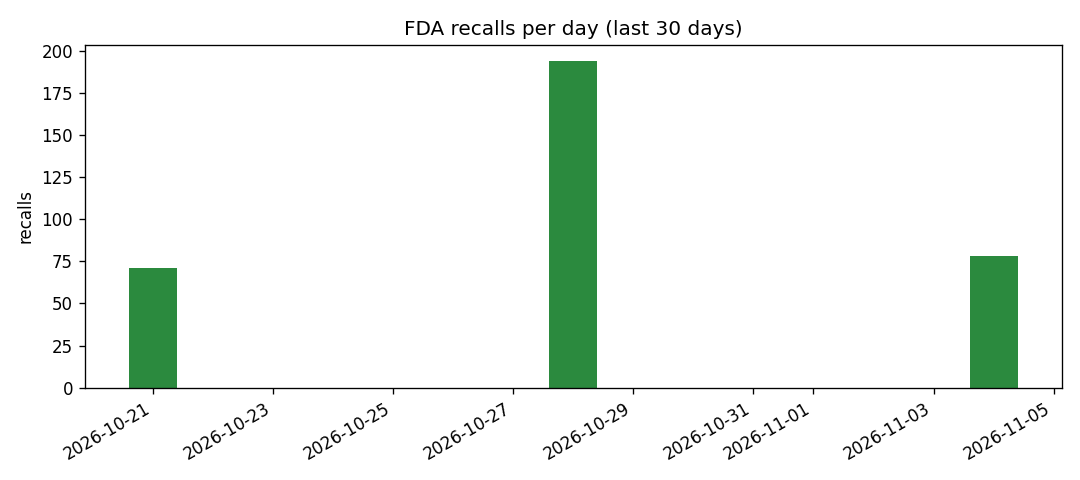
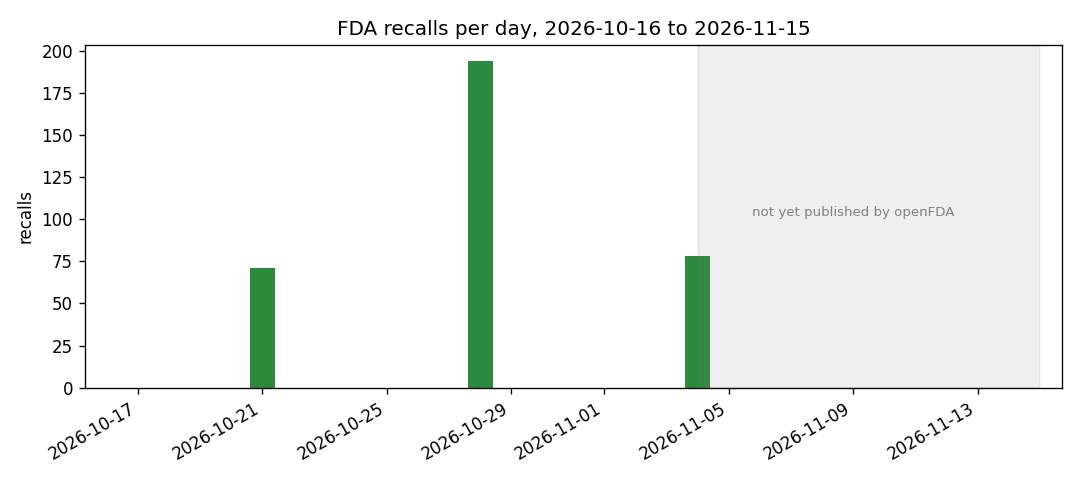
Full-window chart with openFDA freshness shading; daily_series helper; meta endpoint; README badge and chart embed; +4 tests

diff --git a/src/recallradar/report.py b/src/recallradar/report.py
@@ -8,19 +8,22 @@ import matplotlib
 matplotlib.use("Agg")
 import matplotlib.pyplot as plt
 
-from .analyze import recalls_by_day
+from .analyze import daily_series
 
 CLASS_ORDER = ["Class I", "Class II", "Class III"]
 
 
 def render_markdown(summary: dict, spotlight: list[dict],
                     window_start: dt.date, window_end: dt.date,
+                    data_through: dt.date | None = None,
                     generated_at: dt.datetime | None = None) -> str:
     generated_at = generated_at or dt.datetime.now(dt.timezone.utc)
+    freshness = (f"openFDA data published through {data_through}. "
+                 if data_through else "")
     lines = [
         "# FDA Recall Radar - daily report",
         "",
-        f"Window: {window_start} to {window_end} (by report date). "
+        f"Window: {window_start} to {window_end} (by report date). {freshness}"
         f"Generated {generated_at:%Y-%m-%d %H:%M} UTC.",
         "",
         f"**{summary['total']} recalls** across {summary['days_with_recalls']} active days.",
@@ -55,16 +58,26 @@ def render_markdown(summary: dict, spotlight: list[dict],
     return "\n".join(lines)
 
 
-def plot_daily_counts(records: list[dict], out_path, window_days: int = 30) -> bool:
-    by_day = recalls_by_day(records)
-    if not by_day:
+def plot_daily_counts(records: list[dict], out_path,
+                      window_start: dt.date, window_end: dt.date,
+                      data_through: dt.date | None = None) -> bool:
+    series = daily_series(records, window_start, window_end)
+    if not series:
         return False
-    days = [d for d, _ in by_day]
-    counts = [c for _, c in by_day]
+    days = [d for d, _ in series]
+    counts = [c for _, c in series]
     fig, ax = plt.subplots(figsize=(9, 4))
     ax.bar(days, counts, color="#2b8a3e")
-    ax.set_title(f"FDA recalls per day (last {window_days} days)")
+    ax.set_title(f"FDA recalls per day, {window_start} to {window_end}")
     ax.set_ylabel("recalls")
+    ax.margins(x=0.01)
+    if data_through and data_through < window_end:
+        ax.axvspan(data_through + dt.timedelta(days=0.5), window_end,
+                   color="grey", alpha=0.12)
+        midpoint = data_through + (window_end - data_through) / 2
+        ax.annotate("not yet published by openFDA",
+                    xy=(midpoint, ax.get_ylim()[1] * 0.5),
+                    ha="center", fontsize=8, color="grey")
     fig.autofmt_xdate()
     fig.tight_layout()
     fig.savefig(out_path, dpi=120)

diff --git a/scripts/daily_update.py b/scripts/daily_update.py
@@ -33,6 +33,15 @@ def main() -> None:
     end = dt.date.today()
     start = end - dt.timedelta(days=WINDOW_DAYS)
 
+    data_through = None
+    try:
+        meta = api.fetch_meta("drug")
+        raw_updated = meta.get("last_updated")
+        if raw_updated:
+            data_through = dt.datetime.strptime(raw_updated, "%Y-%m-%d").date()
+    except api.OpenFDAError as exc:
+        print(f"warning: could not read openFDA meta: {exc}")
+
     records: list[dict] = []
     for product in api.ENDPOINTS:
         for rec in api.fetch_enforcement(product, start, end):
@@ -62,9 +71,11 @@ def main() -> None:
     summary = analyze.summarize(records)
     spotlight = analyze.most_severe(records)
     (REPORTS / "daily_report.md").write_text(
-        report.render_markdown(summary, spotlight, start, end), encoding="utf-8"
+        report.render_markdown(summary, spotlight, start, end, data_through),
+        encoding="utf-8",
     )
-    if report.plot_daily_counts(records, REPORTS / "recalls_last_30d.png", WINDOW_DAYS):
+    if report.plot_daily_counts(records, REPORTS / "recalls_last_30d.png",
+                                start, end, data_through):
         print("wrote chart")
     print("wrote reports/daily_report.md")
 

diff --git a/src/recallradar/api.py b/src/recallradar/api.py
@@ -31,6 +31,17 @@ def date_range_query(field: str, start: dt.date, end: dt.date) -> str:
     return f"{field}:[{fda_date(start)} TO {fda_date(end)}]"
 
 
+def fetch_meta(product: str, session=None) -> dict:
+    """Return the openFDA meta block (includes last_updated) for an endpoint."""
+    if product not in ENDPOINTS:
+        raise ValueError(f"unknown product area {product!r}; expected one of {ENDPOINTS}")
+    http = session or requests.Session()
+    resp = http.get(f"{BASE_URL}/{product}/enforcement.json", params={"limit": 1}, timeout=30)
+    if resp.status_code != 200:
+        raise OpenFDAError(f"openFDA returned {resp.status_code} for {product} meta")
+    return resp.json().get("meta", {})
+
+
 def fetch_enforcement(product: str, start: dt.date, end: dt.date,
                       session=None, max_pages: int = MAX_PAGES) -> list[dict]:
     """Fetch enforcement reports for one product area over an inclusive date range.

diff --git a/src/recallradar/analyze.py b/src/recallradar/analyze.py
@@ -51,6 +51,21 @@ def recalls_by_day(records: list[dict]) -> list[tuple[dt.date, int]]:
     return sorted(counts.items())
 
 
+def daily_series(records: list[dict], start: dt.date, end: dt.date) -> list[tuple[dt.date, int]]:
+    """Recall counts for every day in [start, end], with explicit zeros.
+
+    Days without recalls are missing from the source data, not zero - fill
+    them so charts show the real window instead of only active days.
+    """
+    counts = dict(recalls_by_day(records))
+    series = []
+    day = start
+    while day <= end:
+        series.append((day, counts.get(day, 0)))
+        day += dt.timedelta(days=1)
+    return series
+
+
 def most_severe(records: list[dict], n: int = 5) -> list[dict]:
     """Most severe records: Class I first, ties broken by newest report date."""
     def key(rec: dict):

diff --git a/tests/test_analyze.py b/tests/test_analyze.py
@@ -51,6 +51,18 @@ def test_most_severe_prefers_class_one_then_newest(sample_records):
     assert spotlight[0]["recall_number"] == "F-003-2027"  # Class I, 11/12 beats 11/10
 
 
+def test_daily_series_fills_missing_days_with_zero(sample_records):
+    series = dict(analyze.daily_series(sample_records, dt.date(2026, 11, 9), dt.date(2026, 11, 14)))
+    assert len(series) == 6
+    assert series[dt.date(2026, 11, 9)] == 0
+    assert series[dt.date(2026, 11, 11)] == 0
+    assert series[dt.date(2026, 11, 10)] == 3
+
+
+def test_daily_series_empty_range():
+    assert analyze.daily_series([], dt.date(2026, 11, 10), dt.date(2026, 11, 9)) == []
+
+
 def test_summarize_empty():
     summary = analyze.summarize([])
     assert summary["total"] == 0

diff --git a/tests/test_api.py b/tests/test_api.py
@@ -70,3 +70,14 @@ def test_fetch_raises_on_server_error():
 def test_fetch_rejects_unknown_product_area():
     with pytest.raises(ValueError):
         api.fetch_enforcement("cosmetics", dt.date(2026, 11, 1), dt.date(2026, 11, 15))
+
+
+def test_fetch_meta_returns_meta_block():
+    session = FakeSession([FakeResponse(200, {"meta": {"last_updated": "2026-11-04"}})])
+    assert api.fetch_meta("drug", session=session)["last_updated"] == "2026-11-04"
+
+
+def test_fetch_meta_raises_on_error():
+    session = FakeSession([FakeResponse(500, {})])
+    with pytest.raises(api.OpenFDAError):
+        api.fetch_meta("food", session=session)

diff --git a/README.md b/README.md
@@ -1,5 +1,9 @@
 # FDA Recall Radar
 
+![tests](https://github.com/vinithaappanna/fda-recall-radar/actions/workflows/tests.yml/badge.svg)
+
+![FDA recalls per day](reports/recalls_last_30d.png)
+
 A self-updating data project that tracks U.S. FDA enforcement reports (recalls)
 across drugs, food and medical devices. Every day it pulls the last 30 days of
 reports from the [openFDA](https://open.fda.gov/) API, archives new recalls into
@@ -38,7 +42,9 @@ python -m pytest                 # run the test suite
 `scripts/daily_update.py` is idempotent: re-running it only archives recalls it
 has not seen before. It runs once a day and each run is merged back to `main`,
 so the history file and report grow day by day. New analysis features and tests
-are added on a daily cadence too.
+are added on a daily cadence too. The latest generated report lives at
+[reports/daily_report.md](reports/daily_report.md); days openFDA has not
+published yet are shaded on the chart.
 
 ## Notes
 

diff --git a/reports/daily_report.md b/reports/daily_report.md
@@ -1,6 +1,6 @@
 # FDA Recall Radar - daily report
 
-Window: 2026-10-16 to 2026-11-15 (by report date). Generated 2026-11-15 19:50 UTC.
+Window: 2026-10-16 to 2026-11-15 (by report date). openFDA data published through 2026-11-04. Generated 2026-11-15 19:56 UTC.
 
 **343 recalls** across 3 active days.
 
